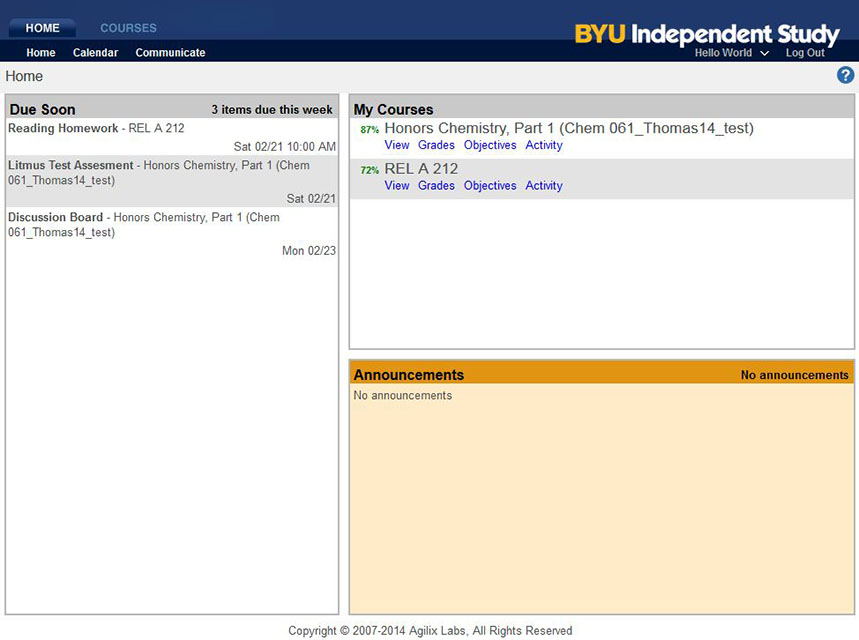
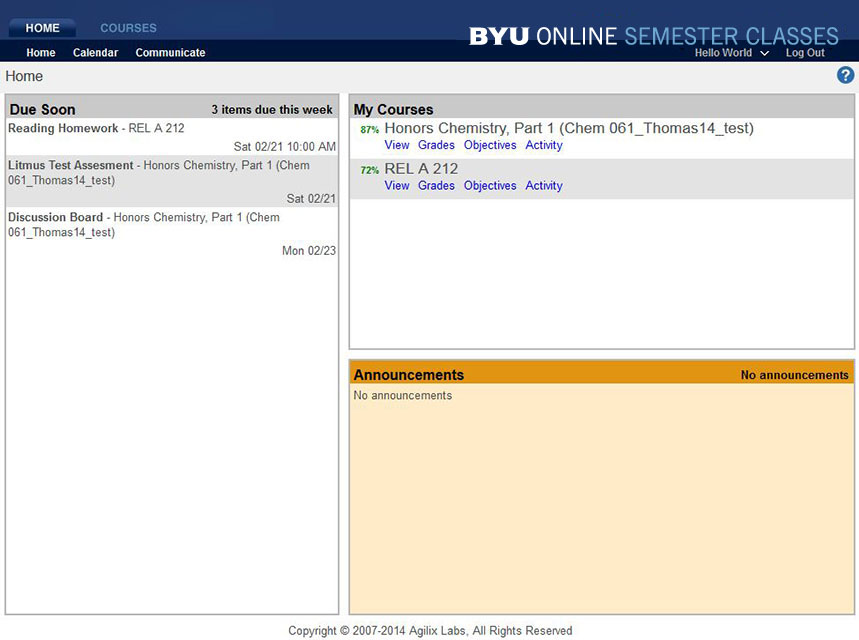
TA/professor info, .jpgs
old .jpgs had independent study logos. The new ones have BYU Online. I
also fixed a thumbnail that had the wrong image.

Changed region(s): [[0.5448, 0.0312, 0.9988, 0.0938]]

diff --git a/Help.html b/Help.html
@@ -86,7 +86,7 @@
             
 			<h2 id="h-1">Introduction to Adobe Connect</h2>
 			<div class="bxslider-wrapper"><p><a href="help_files/storyline_introtoadobeconnect output/story.html" target="_blank">Click here</a> for an interactive introduction to Adobe Connect</p>
-           <p><a href="help_files/storyline_introtoadobeconnect output/story.html" target="_blank"><img src="help_files/brainhoney_storyline/brainhoneypreview.jpg" width="490" height="318"></a>
+           <p><a href="help_files/storyline_introtoadobeconnect output/story.html" target="_blank"><img src="help_files/storyline_introtoadobeconnect output/introtoadobecoverslide.jpg" width="490" height="318"></a>
            </p></div>
 			<h2 id="h-2">Scheduling Learning Checkpoints</h2>
 			<div class="bxslider-wrapper">
@@ -156,8 +156,9 @@
 					<div><h4>EXSC 221 (Sections 002, 003)</h4>Tyler Freshour<br/><a href="mailto:ta_exsc221@byu.edu">ta_exsc221@byu.edu</a></div>
 					<div><h4>EXSC 221 (Sections 004, 005)</h4>  Joel Buss<br/> <a href="mailto:ta_exsc221_3@byu.edu">ta_exsc221_3@byu.edu</a></div>
                     <div><h4>EXSC 221 (Section 006)</h4>  Erik Hunsaker<br/> <a href="mailto:ta_exsc221_3@byu.edu">ta_exsc221_2@byu.edu</a></div>
+                    <div><h4>COMMS 300 (Sections 005, 006)</h4> Harrison Montague<br/> <a href="mailto:ta_comms300@byu.edu">ta_comms300@byu.edu</a></div>
                     <div><h4>HLTH 335</h4>  Calvin Jahng, Hannah Payne<br/> <a href="mailto:ta_hlth335@byu.edu">ta_hlth335@byu.edu</a> </div>
-					<div><h4>IHUM 202</h4>  Harrison Montague<br/> <a href="mailto:ta1_ihum202@byu.edu">ta1_ihum202@byu.edu</a> </div>
+					<div><h4>IHUM 202</h4>  Sarah Bonney<br/> <a href="mailto:ta1_ihum202@byu.edu">ta1_ihum202@byu.edu</a> </div>
                     <div><h4>IHUM 202</h4>  Adam Lloyd<br/> <a href="mailto:ta2_ihum202@byu.edu">ta2_ihum202@byu.edu</a></div>
 					<div><h4>M COM 320</h4>  Steven Rimmer<br/> <a href="mailto:ta_mcom320@byu.edu">ta_mcom320@byu.edu</a> </div>
                     <div><h4>MUSIC 201</h4>  Logan Anderson<br/> <a href="mailto:ta_music201@byu.edu">ta_music201@byu.edu</a> </div>
@@ -168,9 +169,9 @@
 					<div><h4>REL A 212</h4>  Lynn Mulkern<br/> <a href="mailto:ta_rela212@byu.edu">ta_rela212@byu.edu</a></div>
 					<div><h4>REL C 324</h4>  Joseph Mohrman<br/> <a href="mailto:ta_relc324@byu.edu">ta_relc324@byu.edu</a></div>
 					<div><h4>REL C 333</h4>  Alan Hickey<br/> <a href="mailto:ta_relc333@byu.edu">ta_relc333@byu.edu</a></div>
-					<div><h4>SFL 160</h4>  Sarah Shepard<br/> <a href="mailto:ta_sfl160@byu.edu">ta_sfl160@byu.edu</a></div>
-					<div><h4>SFL 260</h4>  Melissa Bennett<br/> <a href="mailto:ta_sfl260@byu.edu">ta_sfl260@byu.edu</a></div>
-					<div><h4>SOC 111</h4>  Jason Searle<br/> <a href="mailto:ta_soc111@byu.edu">ta_soc111@byu.edu</a></div>
+					<div><h4>SFL 160</h4>  TBA<br/> <a href="mailto:ta_sfl160@byu.edu">ta_sfl160@byu.edu</a></div>
+					<div><h4>SFL 260</h4>  Matt Judd<br/> <a href="mailto:ta_sfl260@byu.edu">ta_sfl260@byu.edu</a></div>
+					<div><h4>SOC 111</h4>  Brinley Clark<br/> <a href="mailto:ta_soc111@byu.edu">ta_soc111@byu.edu</a></div>
 				</div>
 			</div>
 			<div>

diff --git a/Classes.html b/Classes.html
@@ -248,7 +248,7 @@
 						    <a href="help_files/Syllabi Winter 2015/IHUM 202 Syllabus.docx">Download Syllabus</a> </div>
 							<div class="instructor-name">Rob Colson</div>
 							<div class="instructor-email"><a href="mailto:robert_colson@byu.edu">robert_colson@byu.edu</a></div>
-							<div class="ta-name">TBA</div>
+							<div class="ta-name">Sarah Bonney</div>
 							<div class="ta-email"><a href="mailto:ta1_ihum202@byu.edu">ta1_ihum202@byu.edu</a></div>
 						</div>
 					</li>
